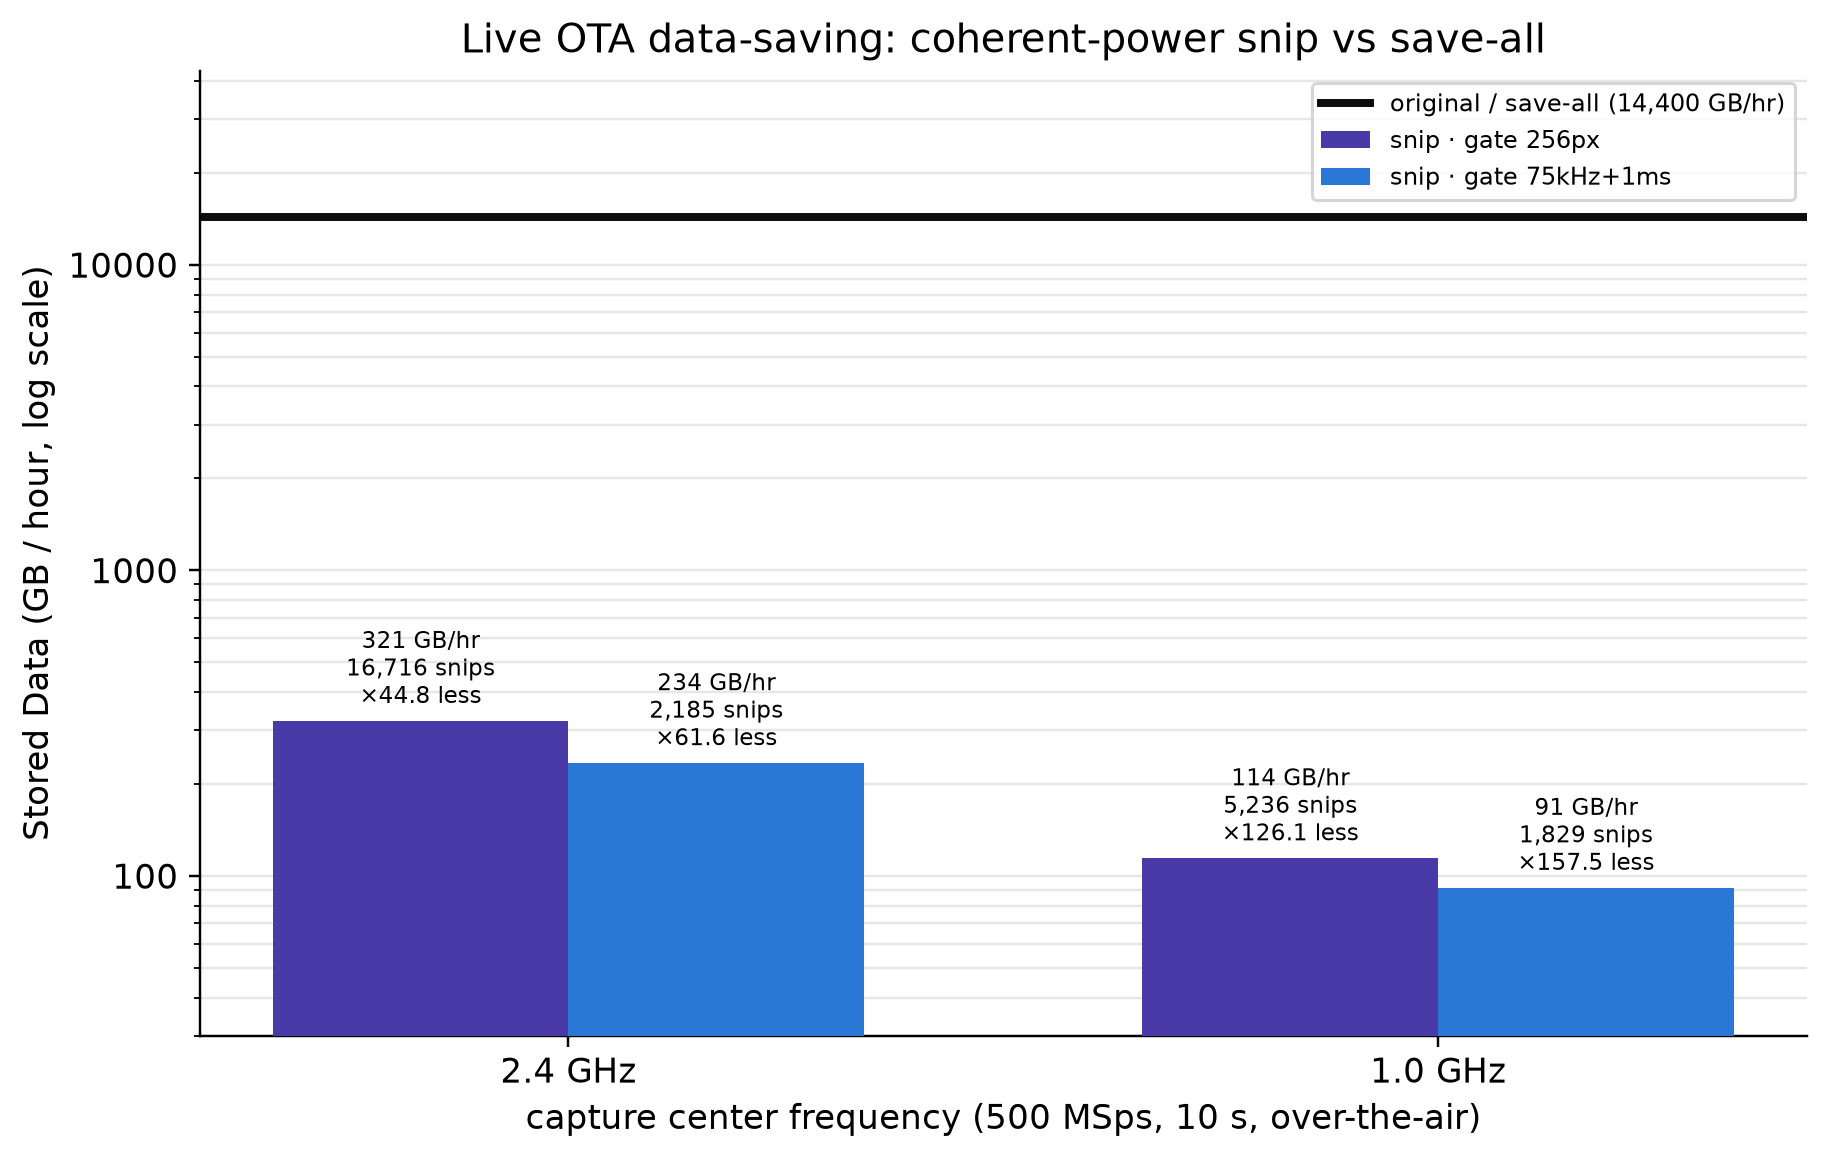
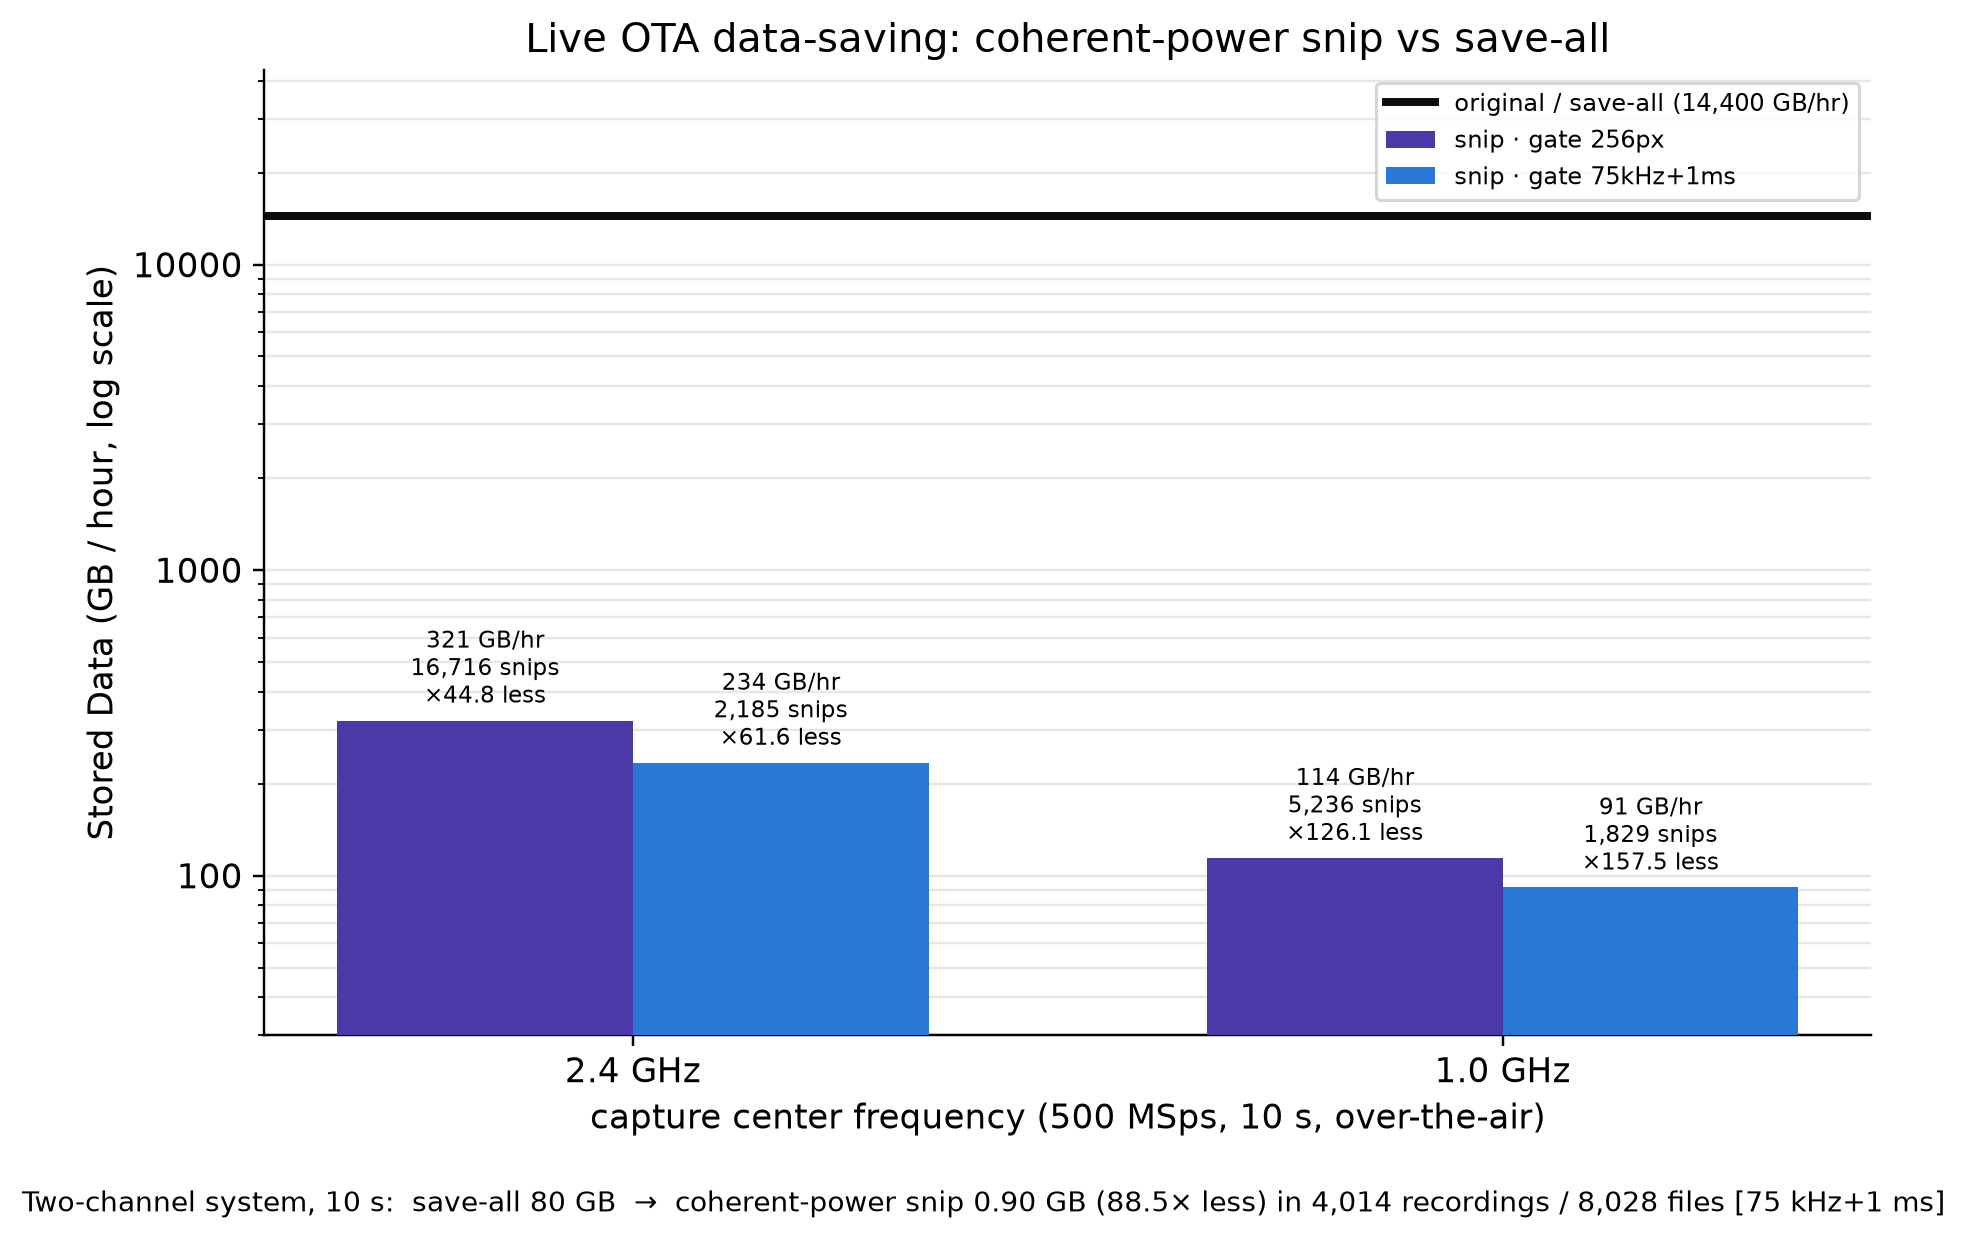
snip_eval/live_eval: add two-channel system totals + file counts
Two-channel 500 MSps system over 10 s: save-all = 80 GB (2 x 40 GB). Coherent-
power snip stores 1.21 GB / 21,952 recordings (256px) or 0.90 GB / 4,014
recordings = 8,028 files (75 kHz+1 ms), i.e. 66x / 88x less than save-all.
Emitted to ota_system_totals.csv, a figure footnote, and the README table.

Changed region(s): [[0.0, 0.497, 0.9978, 0.994], [0.0, 0.0, 0.9978, 0.3727], [0.0, 0.3727, 0.1247, 0.7144]]

diff --git a/applications/usrp_wideband_signal_detection/infocom_evals/snip_eval/live_eval/make_live_eval.py b/applications/usrp_wideband_signal_detection/infocom_evals/snip_eval/live_eval/make_live_eval.py
@@ -67,6 +67,30 @@ with open(out_csv, "w", newline="") as fh:
     w.writeheader(); w.writerows(rows)
 print("wrote", out_csv)
 
+# ---- two-channel system totals (both captures = the 2-channel 500 MSps system over 10 s) ----
+N_CH = 2
+saveall_2ch_gb = RATE_HZ * DURATION_S * BYTES_PER_SAMPLE * N_CH / 1e9   # 80.0 GB (both channels, 10 s)
+sys_rows = []
+for stage_label, _ in STAGES:
+    m = metrics[stage_label]
+    tot_samp = sum(int(m[c]["stored_samples"]) for c in captures)
+    tot_snips = sum(int(m[c]["n_snippets"]) for c in captures)
+    gb = tot_samp * BYTES_PER_SAMPLE / 1e9
+    sys_rows.append(dict(config=stage_label,
+                         saveall_two_channel_GB_10s=round(saveall_2ch_gb, 1),
+                         stored_GB_10s=round(gb, 3), stored_MB_10s=round(gb * 1000, 1),
+                         reduction_x=round(saveall_2ch_gb / gb, 1),
+                         n_recordings=tot_snips, n_files_data_plus_meta=tot_snips * 2))
+sys_csv = HERE / "ota_system_totals.csv"
+with open(sys_csv, "w", newline="") as fh:
+    w = csv.DictWriter(fh, fieldnames=list(sys_rows[0].keys()))
+    w.writeheader(); w.writerows(sys_rows)
+print("wrote", sys_csv)
+for r in sys_rows:
+    print(f"  [{r['config']:>10}] 2-ch save-all {r['saveall_two_channel_GB_10s']} GB -> stored "
+          f"{r['stored_GB_10s']} GB ({r['reduction_x']}x less), "
+          f"{r['n_recordings']:,} recordings ({r['n_files_data_plus_meta']:,} files)")
+
 # ---- figure: stored GB/hr (log) per capture, two gate settings, vs the save-all line ----
 cap_labels = [CAP_LABEL.get(c, c) for c in captures]
 x = np.arange(len(captures))
@@ -96,6 +120,12 @@ ax.set_ylabel("Stored Data (GB / hour, log scale)")
 ax.set_title("Live OTA data-saving: coherent-power snip vs save-all")
 ax.grid(alpha=.3, which="both", axis="y")
 ax.legend(loc="upper right", fontsize=8)
+r75 = next(r for r in sys_rows if "75" in r["config"])
+fig.text(0.5, -0.015,
+         f"Two-channel system, 10 s:  save-all {saveall_2ch_gb:.0f} GB  →  coherent-power snip "
+         f"{r75['stored_GB_10s']:.2f} GB ({r75['reduction_x']:g}× less) in "
+         f"{r75['n_recordings']:,} recordings / {r75['n_files_data_plus_meta']:,} files [75 kHz+1 ms]",
+         ha="center", va="top", fontsize=9)
 fig.tight_layout()
 out_png = HERE / "ota_live_eval.png"
 fig.savefig(out_png)

diff --git a/applications/usrp_wideband_signal_detection/infocom_evals/snip_eval/live_eval/README.md b/applications/usrp_wideband_signal_detection/infocom_evals/snip_eval/live_eval/README.md
@@ -48,6 +48,20 @@ Save-all baseline at 500 MSps cf32 = **14,400 GB/hr** (40 GB per 10 s capture).
 | 1.0 GHz | snip · 256px | 5,236 | 317 MB | 114 | 126× |
 | 1.0 GHz | snip · 75 kHz + 1 ms | **1,829** | **254 MB** | 91 | **157.5×** |
 
+### Two-channel system totals — 10 s (`ota_system_totals.csv`)
+Both captures together = the two-channel 500 MSps system. Save-all for 10 s = **2 × 40 GB = 80 GB**.
+
+| gate | stored (10 s) | vs 80 GB | recordings | files (data+meta) |
+|---|---:|---:|---:|---:|
+| snip · 256px | **1.21 GB** | **66.1× less** | 21,952 | 43,904 |
+| snip · 75 kHz + 1 ms | **0.90 GB** | **88.5× less** | **4,014** | **8,028** |
+
+So in a 10-second dual-500-MSps window the coherent-power snipper turns **80 GB of raw IQ into
+~0.90 GB across 4,014 SigMF recordings** (8,028 files: one `.sigmf-data` + one `.sigmf-meta` per
+detection) under the 75 kHz/1 ms gate. (These runs use `write_iq: false`, so only the `.sigmf-meta`
+files are actually on disk; the byte totals are the exact sizes the `.sigmf-data` would occupy. Note
+the 1.0 GHz share — 1,829 recordings / 254 MB — is the band-edge spur, see below.)
+
 **Interpretation.** The 256-pixel gate alone leaves many tiny fragments (16.7k / 5.2k snippets).
 Adding the 75 kHz bandwidth + 1 ms duration filters cuts the snippet count by **87 % / 65 %** while
 shedding only **27 % / 20 %** of the bytes — i.e. it removes thousands of tiny, low-content fragments
@@ -83,6 +97,7 @@ to get a meaningful 1.0 GHz number: restrict detection to the ±200 MHz analog p
 - `render_ota_overlay.py` — spectrogram + snipper-box overlays (→ `ota_overlay_cf{2400,1000}MHz.png`).
 - `make_live_eval.py` — builds the combined table + figure from the two source metrics CSVs.
 - `ota_live_eval.csv` — the three-way comparison table (source of the table above).
+- `ota_system_totals.csv` — two-channel system totals (save-all 80 GB vs stored, recording/file counts).
 - `ota_live_eval.png` — stored GB/hr (log) per capture vs the save-all line, snippet counts + reductions.
 - `ota_metrics_snip_256px.csv`, `ota_metrics_snip_75kHz_1ms.csv` — raw `snip_pipeline` per-capture metrics.
 